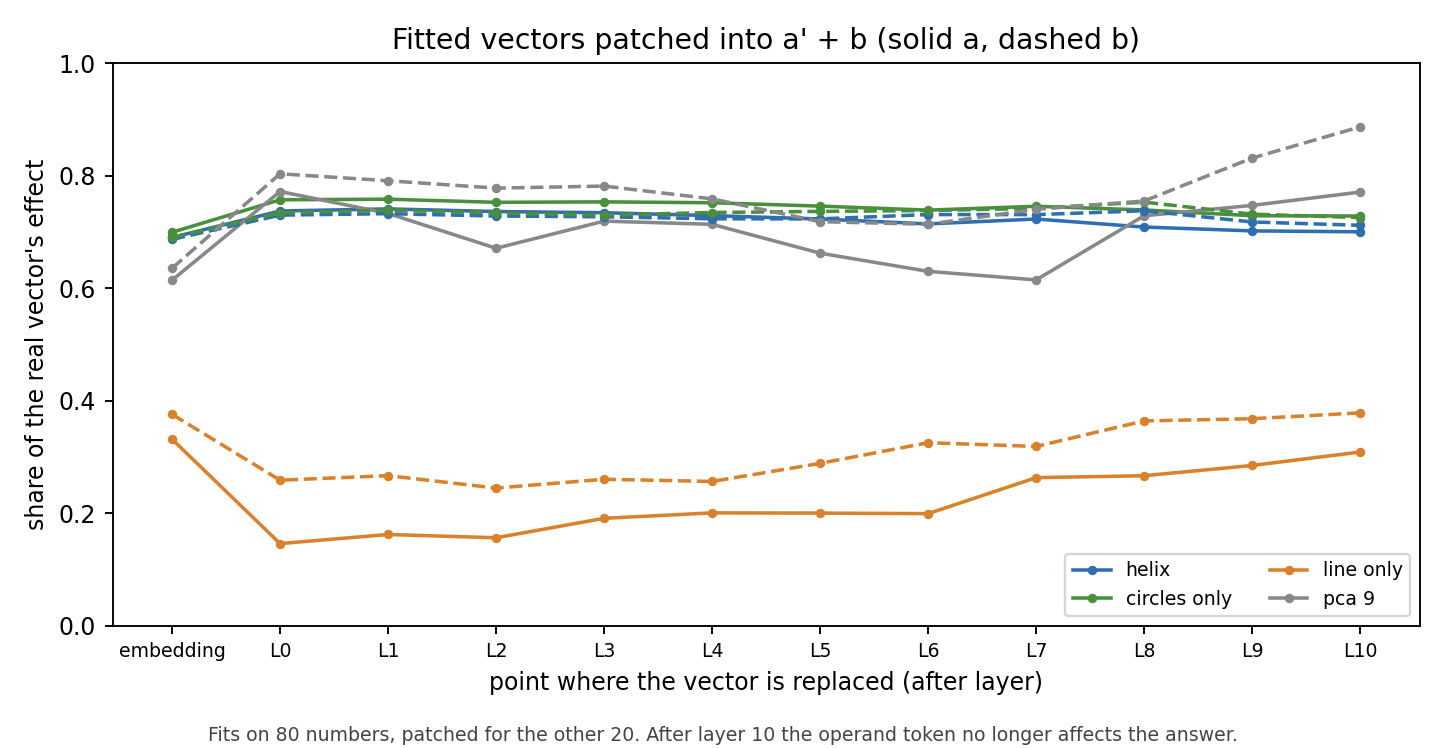
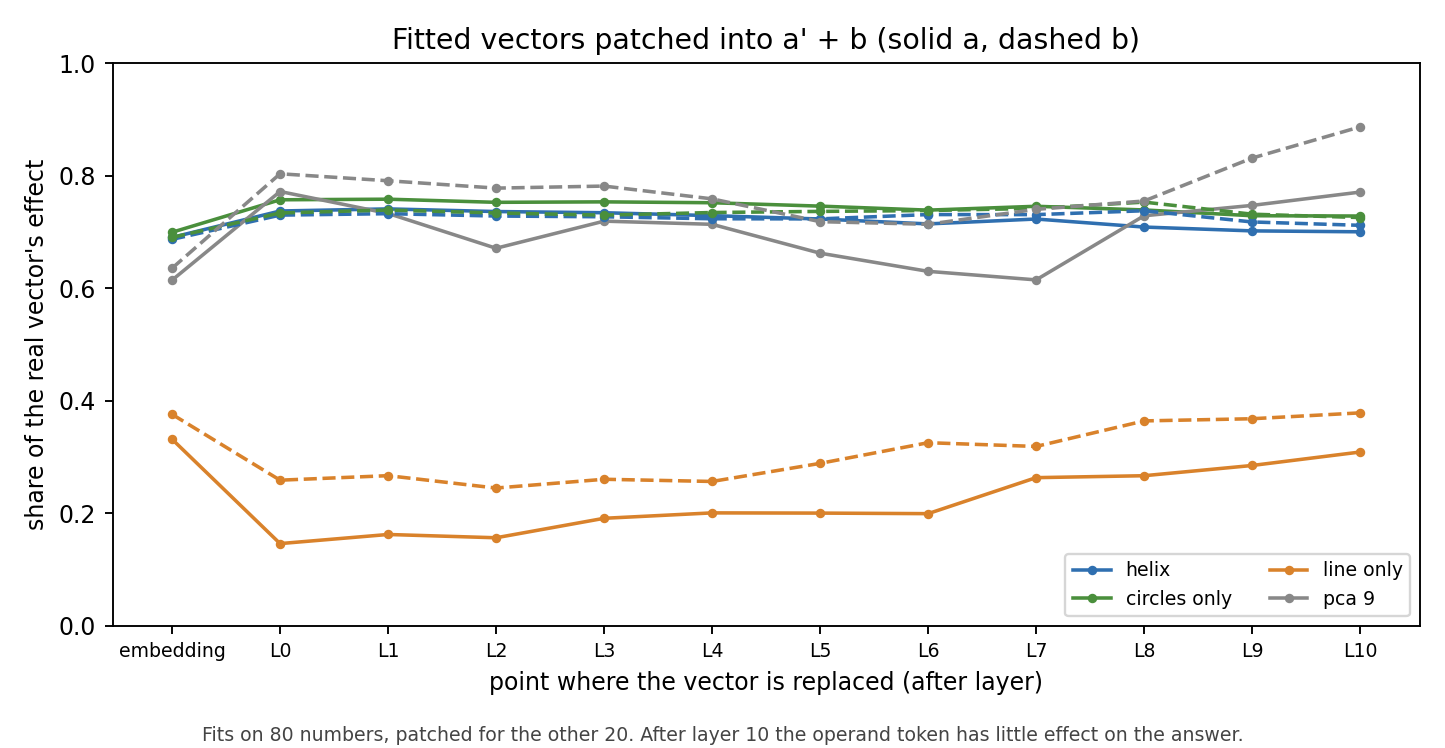
correction on carry claim

Changed region(s): [[0.1246, 0.9532, 0.872, 1.0]]

diff --git a/scripts/helix_patching_figure.py b/scripts/helix_patching_figure.py
@@ -24,7 +24,7 @@ ax.set_xlabel("point where the vector is replaced (after layer)")
 ax.set_ylabel("share of the real vector's effect")
 ax.set_title("Fitted vectors patched into a' + b (solid a, dashed b)")
 ax.legend(fontsize=8, ncol=2, loc="lower right")
-fig.text(0.5, 0.01, "Fits on 80 numbers, patched for the other 20. After layer 10 the operand token no longer affects the answer.",
+fig.text(0.5, 0.01, "Fits on 80 numbers, patched for the other 20. After layer 10 the operand token has little effect on the answer.",
          ha="center", fontsize=8, color="#444444")
 fig.tight_layout(rect=(0, 0.04, 1, 1))
 fig.savefig("figures/helix_patching.png", dpi=170)

diff --git a/results/README.md b/results/README.md
@@ -131,7 +131,7 @@ Other results:
 - Without its 53 hand-checked lookups, the magnitude supernode has almost no
   effect (0.2%).
 - With looser labels ($R^2 \ge 0.5$, no manual review) both supernodes pass.
-- Comparison off changes the tens on 41% of prompts, mixed family on 36%,
+- Comparison off changes the tens on 40% of prompts, mixed family on 36%,
   mod 100 on 1%.
 
 ## 4. Q1: attribution graphs
@@ -221,8 +221,10 @@ patched (`helix_patching_corrupted/`).
 The helix (line and $T = 2, 5, 10, 100$) keeps 69 to 74% of the real vector's
 effect; the circles alone the same; the line alone 15 to 38%; 9 PCA
 directions 61 to 89%. About 80% of the top 9 PCA directions lie inside the
-helix directions (random directions: 0.5%). After layer 10, replacing the
-operand's vector has no effect: the number has been moved to "=".
+helix directions (random directions: 0.5%). After layer 10 the operand's
+vector matters little: after layer 11 the real vector's effect is under 8% of
+its earlier size, and about 0 from layer 14. By then the number has been
+copied to "=".
 
 ## 6. Q2: which circles each pathway uses
 
@@ -270,18 +272,20 @@ supernode moves no more than random) is crossed in 3 of 4 cases, by 0.003 to
   fast swap reaches a shift of 0.99 and the exact answer on 87 to 89% of
   prompts; random directions of the same size give 0.01 and 0%.
 - **Grid** (post hoc, panel B): adding $T = 50$ to the fast swap raises the
-  exact answer from 87% to 99%. Swapping all circles gives 99%, the whole
-  vector 100%.
+  exact answer from 87 to 89% to 99%. Swapping all circles gives 99 to 100%,
+  the whole vector 98 to 100%.
 - **Removal** (post hoc, panel C): setting one part to its average breaks the
-  matching digit only. All fast circles: units wrong on 83%. Both slow circles:
-  tens wrong on 86%. Each fast period alone: 9 to 20%. $T = 50$ alone: 56%.
+  matching digit only. All fast circles: units wrong on 80 to 83%. Both slow
+  circles: tens wrong on 80 to 86%. Each fast period alone: 7 to 20%.
+  $T = 50$ alone: 52 to 57%; $T = 100$ alone: 35 to 37%.
   $T = 3.3$, $T = 2.5$ and random directions: about 0.
 - **Clamp**: holding the last-digit supernode at its clean values during the
-  fast swap lowers the exact $a' + b$ answer from 40% to 5%. The units change
+  fast swap lowers the exact $a' + b$ answer from 40% to 5 to 6%. The units change
   passes through that supernode.
 - The **comparison** supernode follows the slow circles (shift 0.92).
 - A swap at **any single point** from the embedding to after layer 10 gives
-  nearly the full effect.
+  most of the effect: shift 0.51 to 0.58 for the fast swap (0.64 at all
+  points) and 0.66 to 0.86 for the slow swap (0.96 at all points).
 - The main run's random floor for the fast swap (0.32) was high because its
   random directions could include $T = 2$ and the line; a floor that excludes
   every circle and the line is 0.01.
@@ -304,17 +308,23 @@ carry flips (for example 36 to 39 in 36 + 52).
 | all circles | 99.9% | 97 to 99% |
 | whole vector | 100% | 99 to 100% |
 
-The tens follow the new carry once $T = 50$ is swapped. The period-50
-circle's position also changes with the units digit, and the magnitude
-pathway appears to read the carry from it. In Q1, switching off the last-digit
-supernode changed the tens more often on carry prompts, so that supernode
-still matters for some carry prompts; its role is not settled.
+With only the fast circles and $T = 2$ swapped, the slow circles still encode
+the old number, and the tens follow the new carry on 56 to 57% of prompts.
+Without any carry information from the fast side this would be near 0%. Once
+$T = 50$ is swapped as well, so that both sides agree, the tens follow on 96 to
+99%. The carry is therefore available from two sources: the units information
+(the fast circles, directly or through the last-digit features) and the fine
+position on the slow circles, mainly $T = 50$, which also changes with the
+units digit. When the two disagree, the tens follow each about half the time.
+This fits Q1, where switching off the last-digit supernode changed both digits
+more often on carry prompts (27% vs 15%). Which of the two routes the model
+relies on when they agree is not tested here.
 
 ## 8. Comparison with Kantamneni and Tegmark
 
 | | This model | Their GPT-J (from their Table 1) |
 |---|---|---|
-| Helix patched into $a' + b$, share of the real vector | about 0.70 to 0.74 (held-out numbers) | about 0.86 |
+| Helix patched into $a' + b$, share of the real vector | about 0.69 to 0.74 (held-out numbers) | about 0.86 |
 | Weakest point | the embedding (0.69) | layer 0's input |
 
 The same periods appear ($T = 2, 5, 10, 100$, here also 50). Patching vectors
@@ -343,8 +353,9 @@ real number, and the model usually gets both digits wrong with it.
   Tegmark's Clock), or by lookup tables over ranges? Testing for a helix of
   the sum at "=" would help separate the two.
 - Do the same groups appear when features are clustered without labels?
-- What does the direct link from last digit to magnitude carry, if not the
-  carry?
+- How much does each carry route contribute on its own? A test: the
+  all-circles carry flip with the last-digit supernode held at its clean
+  values.
 - Finer supernodes (role and family together, as in Anthropic's diagrams)
   would show the stages inside each pathway.
 - The same tests on the zero-shot prompt.

diff --git a/README.md b/README.md
@@ -22,8 +22,8 @@ Short answers (details, figures and limits in
   (periods 10, 5 and 2), the magnitude features the slow circles (periods 100
   and 50). Swapping those circles between two numbers moves the magnitude
   group 0.96 of the way to the other number, and the last-digit group 0.99
-  once period 2 is included (a post-hoc addition). The carry reaches the
-  tens through the period-50 circle.
+  once period 2 is included (a post-hoc addition). The tens take the
+  carry both from the units information and from the period-50 circle.
 
 These results hold for the labeled features of one model, on one prompt
 format.
